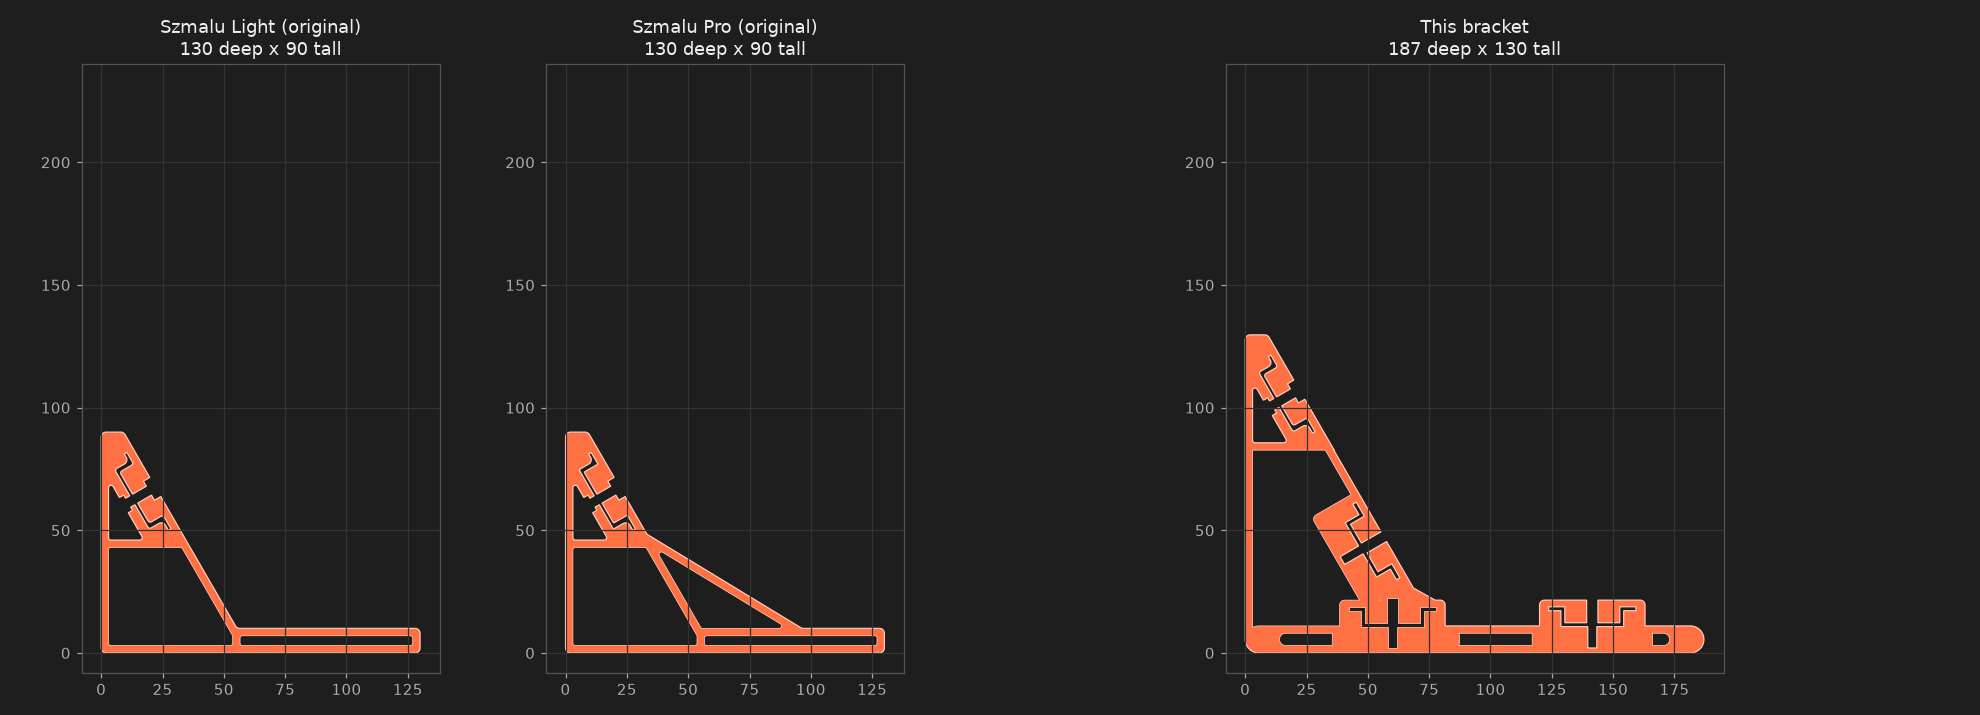
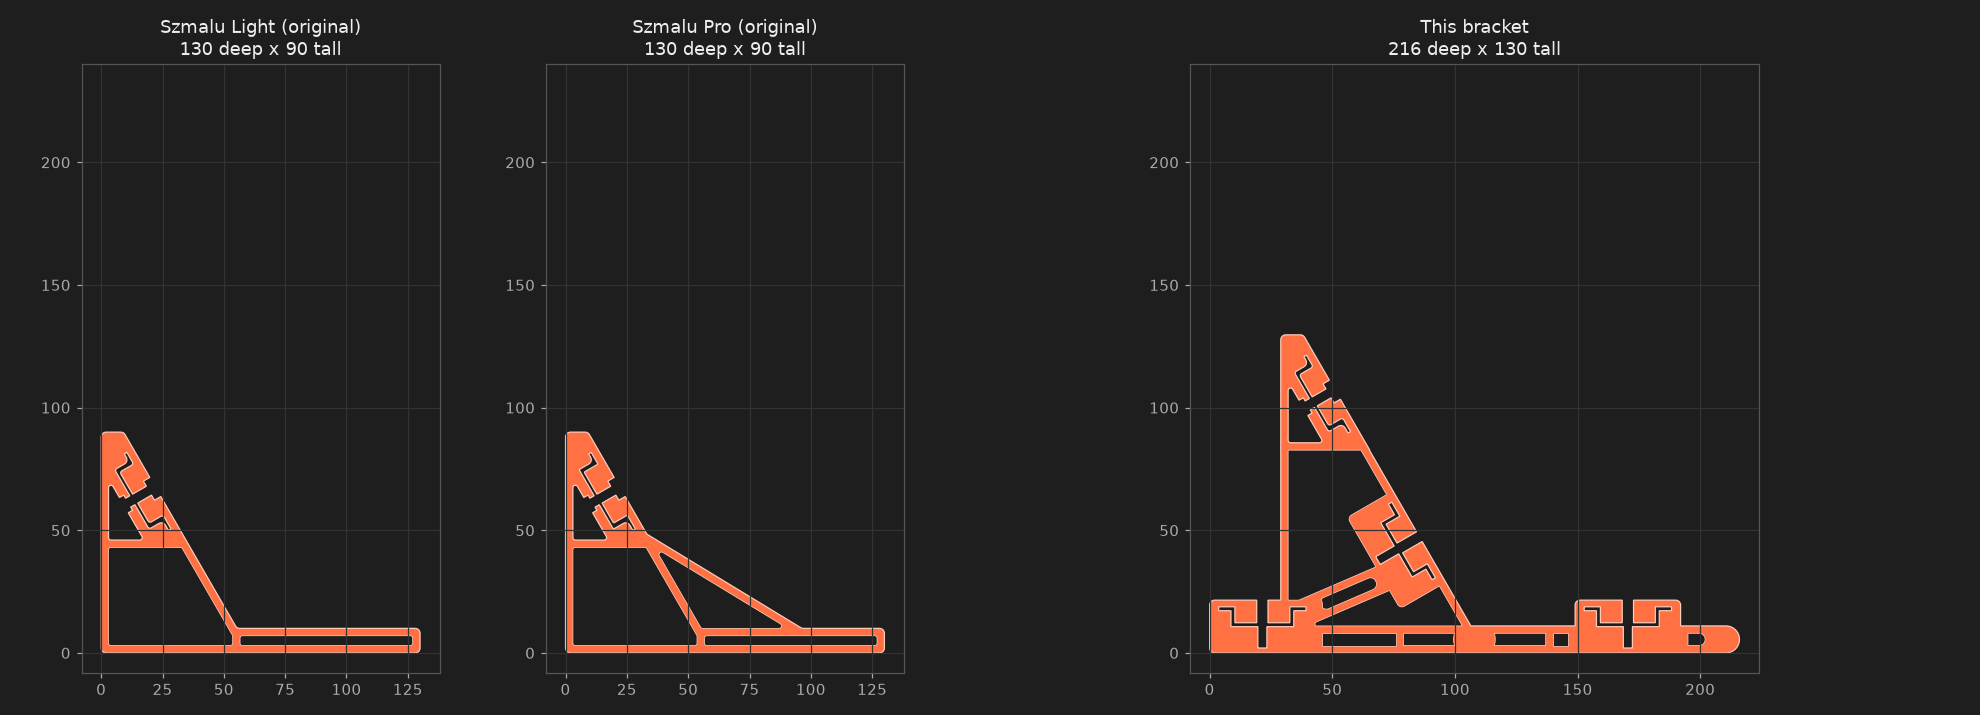
din-rail-bench-stand (WIP): back (AC) rail kept flat, shifted rearward to straddle the post (back_x -7.5), foot runs back under it; AC modules 55 deep (guess, was 65); 216 x 130, all 9 tests pass

diff --git a/projects/din-rail-bench-stand/test_model_scad.py b/projects/din-rail-bench-stand/test_model_scad.py
@@ -65,7 +65,7 @@ def test_one_watertight_piece(bracket):
 
 
 def test_bounds(bracket):
-    assert np.allclose(bracket.bounds, [[0, 0, 0], [FOOT_LEN + W / 2, TOP_Y, T]], atol=0.1)
+    assert np.allclose(bracket.bounds, [[min(0, P["back_x"] - 17.5 - P["block_wall"]), 0, 0], [FOOT_LEN + W / 2, TOP_Y, T]], atol=0.1)
 
 
 def test_top_is_the_originals(bracket):
